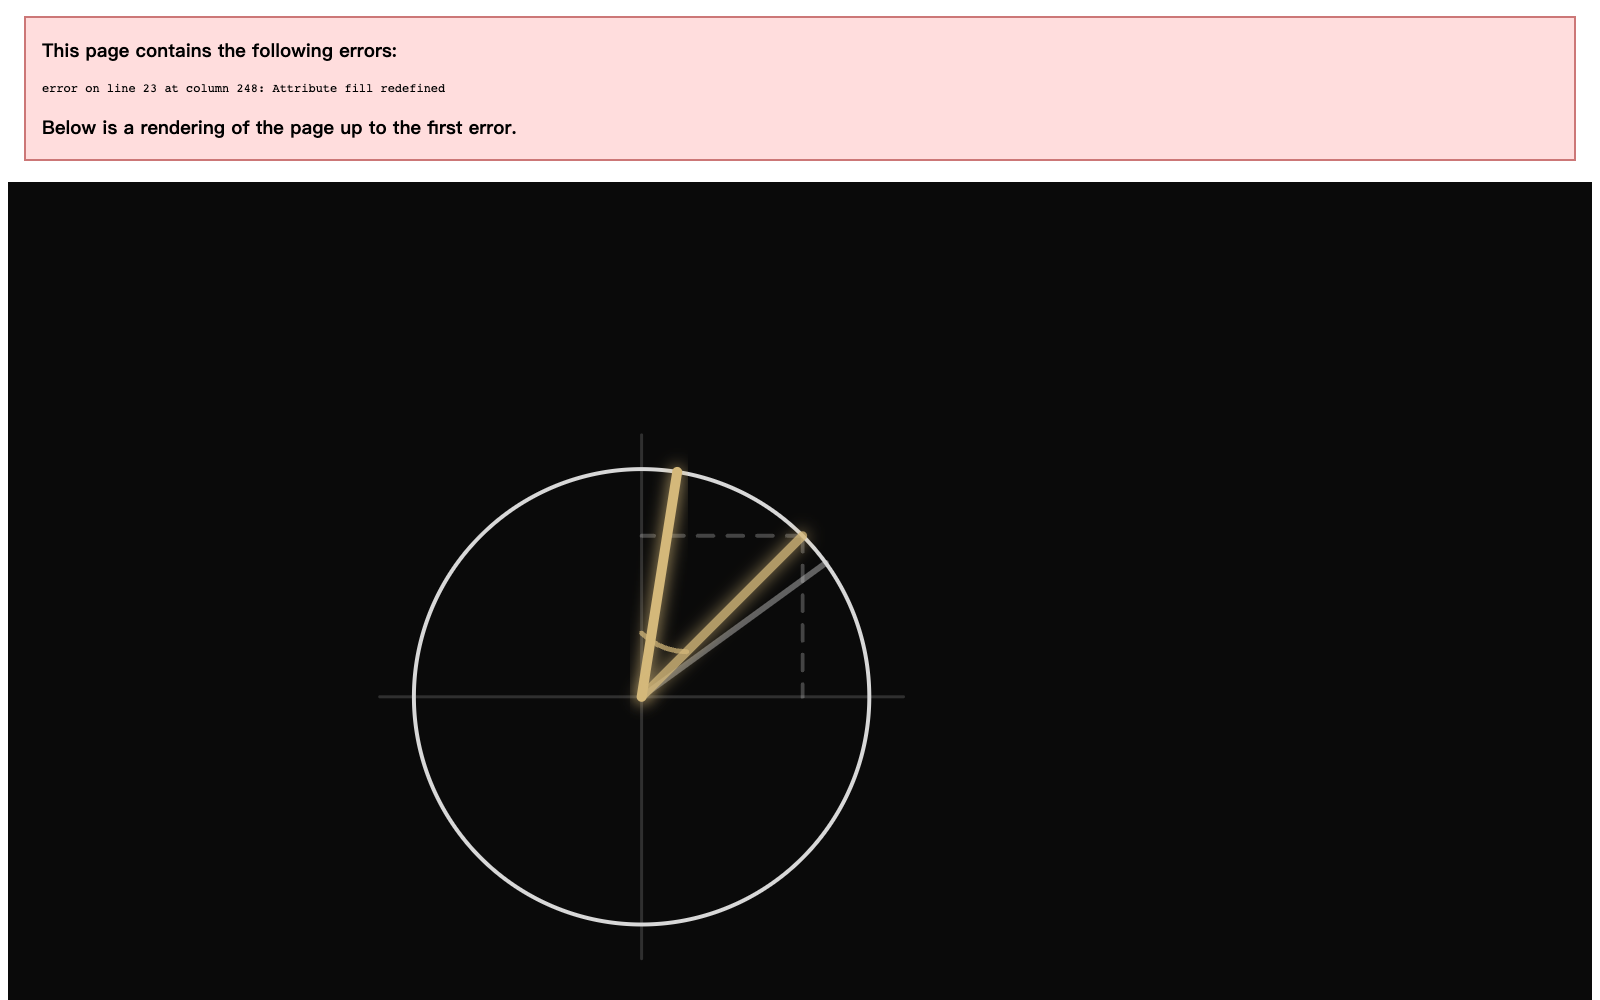
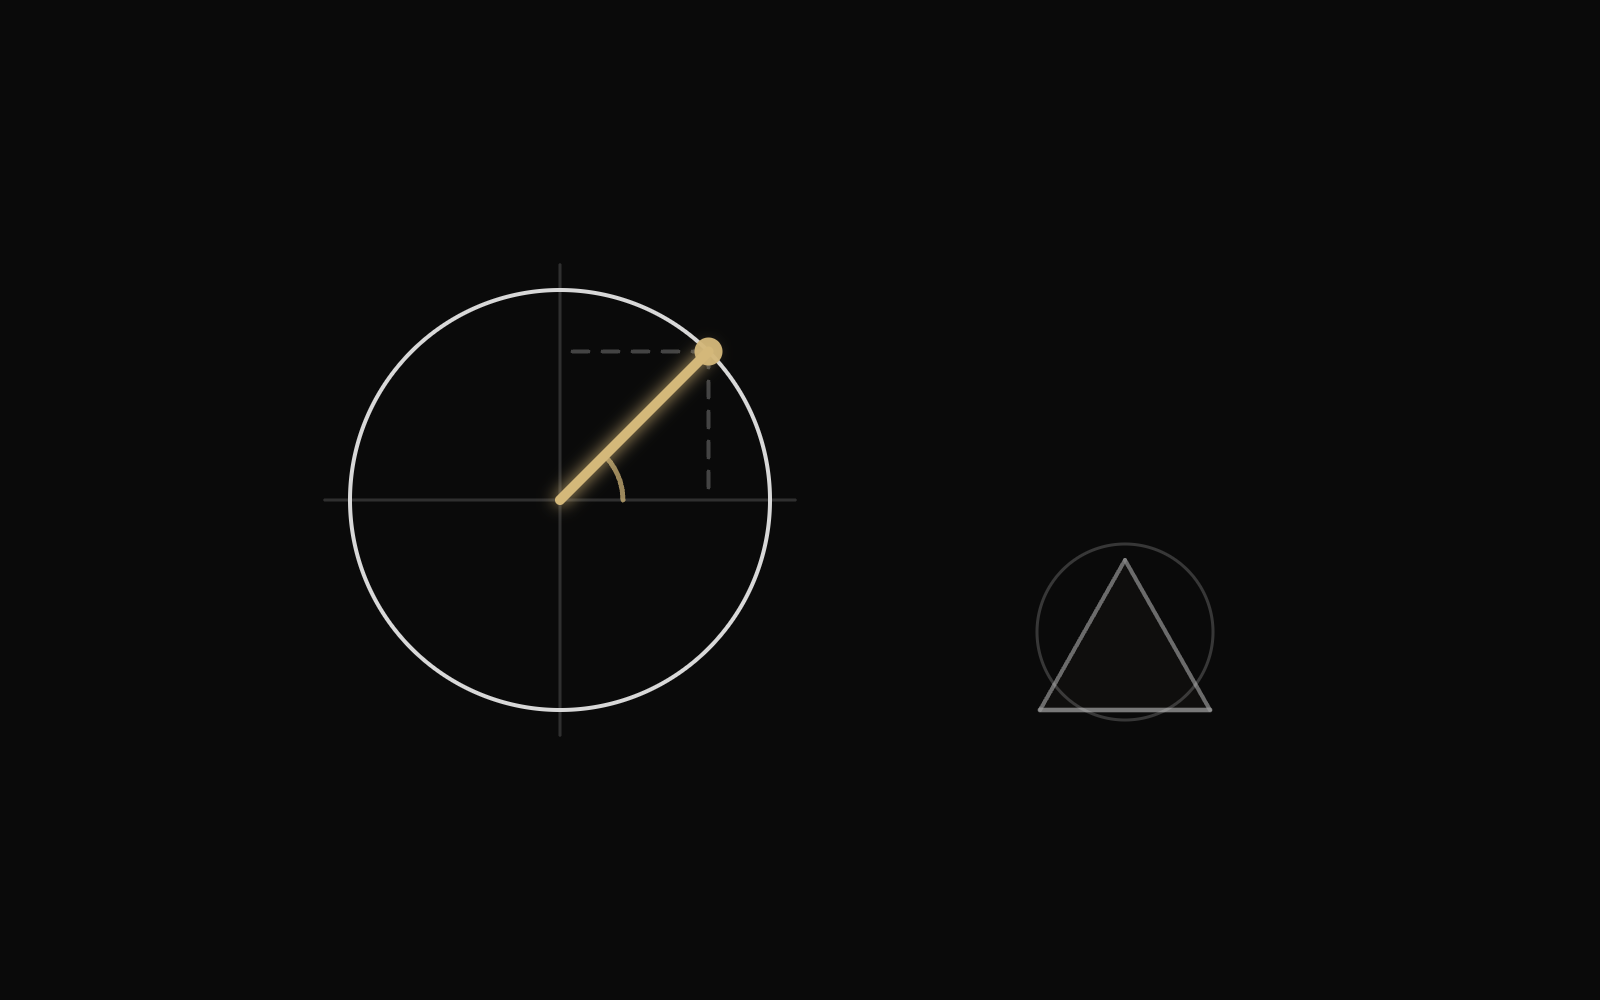
Fix trigonometry covers and surface them as latest homepage entries.
Strengthen work thumbnails and the explore cover SVG, then bump content dates so the new trigonometry batch ranks in the home latest sections.

diff --git a/src/curve/modules/law-of-sines-cosines/geometry.ts b/src/curve/modules/law-of-sines-cosines/geometry.ts
@@ -183,30 +183,48 @@ function toCurvePoint(v: Vec2, theta: number, scale = 42): CurvePoint {
   };
 }
 
+function sampleCircumcirclePath(A: Vec2, B: Vec2, C: Vec2, scale = 42): CurvePoint[] | null {
+  const cc = circumcircleFromTriangle(A, B, C);
+  if (!cc) return null;
+
+  const step = (Math.PI * 2) / 48;
+  const points: CurvePoint[] = [];
+  for (let a = 0; a <= Math.PI * 2 + step; a += step) {
+    points.push(
+      toCurvePoint(
+        { x: cc.o.x + Math.cos(a) * cc.r, y: cc.o.y + Math.sin(a) * cc.r },
+        a,
+        scale,
+      ),
+    );
+  }
+  return points;
+}
+
 export function sampleLawOfSinesCosinesThumbnail(
   params: LawOfSinesCosinesParams,
 ): ThumbnailSpec {
   const { A, B, C } = params.triangle;
-  const a = toCurvePoint(B, 0);
-  const b = toCurvePoint(C, 1);
-  const c = toCurvePoint(A, 2);
+  const a = toCurvePoint(A, 0);
+  const b = toCurvePoint(B, 1);
+  const c = toCurvePoint(C, 2);
+  const circumcircle = sampleCircumcirclePath(A, B, C);
+  const paths: ThumbnailSpec['paths'] = [];
 
-  return {
-    paths: [
-      {
-        points: [a, b],
-        strokeWidth: 1.5,
-      },
-      {
-        points: [b, c],
-        opacity: 0.24,
-        strokeWidth: 0.9,
-      },
-      {
-        points: [c, a],
-        opacity: 0.24,
-        strokeWidth: 0.9,
-      },
-    ],
-  };
+  if (circumcircle) {
+    paths.push({
+      points: circumcircle,
+      opacity: 0.28,
+      strokeWidth: 0.85,
+      excludeFromBbox: true,
+    });
+  }
+
+  paths.push(
+    { points: [a, b], strokeWidth: 1.5 },
+    { points: [b, c], opacity: 0.28, strokeWidth: 0.9 },
+    { points: [c, a], opacity: 0.28, strokeWidth: 0.9 },
+  );
+
+  return { paths };
 }

diff --git a/src/curve/modules/trig-angle-identities/geometry.ts b/src/curve/modules/trig-angle-identities/geometry.ts
@@ -1,3 +1,4 @@
+import { TWO_PI } from '../../constants';
 import type { CurvePoint, ThumbnailSpec } from '../../types';
 
 export const TAU = Math.PI * 2;
@@ -286,37 +287,51 @@ function toCurvePoint(x: number, y: number, theta: number, scale = 42): CurvePoi
   };
 }
 
+function sampleUnitCircleOutline(scale: number): CurvePoint[] {
+  const step = TWO_PI / 48;
+  const points: CurvePoint[] = [];
+  for (let a = 0; a <= TWO_PI + step; a += step) {
+    points.push(toCurvePoint(Math.cos(a), Math.sin(a), a, scale));
+  }
+  return points;
+}
+
 export function sampleTrigAngleIdentitiesThumbnail(): ThumbnailSpec {
+  const scale = 42;
   const alpha = (2 * Math.PI) / 3;
   const beta = Math.PI / 6;
+  const mid = (alpha + beta) / 2;
   const O = { x: 0, y: 0 };
   const A = { x: Math.cos(alpha), y: Math.sin(alpha) };
   const B = { x: Math.cos(beta), y: Math.sin(beta) };
+  const M = { x: Math.cos(mid), y: Math.sin(mid) };
 
   return {
     paths: [
       {
-        points: [toCurvePoint(O.x, O.y, 0), toCurvePoint(A.x, A.y, 1)],
+        points: sampleUnitCircleOutline(scale),
+        opacity: 0.32,
+        strokeWidth: 0.8,
+        excludeFromBbox: true,
+      },
+      {
+        points: [toCurvePoint(O.x, O.y, 0, scale), toCurvePoint(A.x, A.y, 1, scale)],
         strokeWidth: 1.6,
       },
       {
-        points: [toCurvePoint(O.x, O.y, 0), toCurvePoint(B.x, B.y, 1)],
-        strokeWidth: 1.3,
+        points: [toCurvePoint(O.x, O.y, 0, scale), toCurvePoint(B.x, B.y, 1, scale)],
+        strokeWidth: 1.2,
         opacity: 0.72,
       },
       {
-        points: [toCurvePoint(A.x, A.y, 1), toCurvePoint(B.x, B.y, 2)],
-        opacity: 0.22,
-        strokeWidth: 0.8,
-      },
-    ],
-    circles: [
-      {
-        x: 0,
-        y: 0,
-        r: 42,
+        points: [toCurvePoint(O.x, O.y, 0, scale), toCurvePoint(M.x, M.y, 2, scale)],
+        opacity: 0.34,
         strokeWidth: 0.9,
-        opacity: 0.28,
+      },
+      {
+        points: [toCurvePoint(A.x, A.y, 2, scale), toCurvePoint(B.x, B.y, 3, scale)],
+        opacity: 0.18,
+        strokeWidth: 0.75,
       },
     ],
   };

diff --git a/src/curve/modules/unit-circle-trig-definition/geometry.ts b/src/curve/modules/unit-circle-trig-definition/geometry.ts
@@ -1,3 +1,4 @@
+import { TWO_PI } from '../../constants';
 import type { CurvePoint, ThumbnailSpec } from '../../types';
 
 export const TAU = Math.PI * 2;
@@ -218,9 +219,20 @@ function toCurvePoint(x: number, y: number, theta: number, scale = 42): CurvePoi
   };
 }
 
+function sampleUnitCircleOutline(scale: number): CurvePoint[] {
+  const step = TWO_PI / 48;
+  const points: CurvePoint[] = [];
+  for (let a = 0; a <= TWO_PI + step; a += step) {
+    points.push(toCurvePoint(Math.cos(a), Math.sin(a), a, scale));
+  }
+  return points;
+}
+
 export function sampleUnitCircleTrigDefinitionThumbnail(): ThumbnailSpec {
-  const c = Math.cos(Math.PI / 4);
-  const s = Math.sin(Math.PI / 4);
+  const scale = 42;
+  const theta = Math.PI / 4;
+  const c = Math.cos(theta);
+  const s = Math.sin(theta);
   const O = { x: 0, y: 0 };
   const P = { x: c, y: s };
   const X = { x: c, y: 0 };
@@ -229,16 +241,22 @@ export function sampleUnitCircleTrigDefinitionThumbnail(): ThumbnailSpec {
   return {
     paths: [
       {
-        points: [toCurvePoint(O.x, O.y, 0), toCurvePoint(P.x, P.y, 1)],
+        points: sampleUnitCircleOutline(scale),
+        opacity: 0.35,
+        strokeWidth: 0.8,
+        excludeFromBbox: true,
+      },
+      {
+        points: [toCurvePoint(O.x, O.y, 0, scale), toCurvePoint(P.x, P.y, 1, scale)],
         strokeWidth: 1.6,
       },
       {
-        points: [toCurvePoint(O.x, O.y, 0), toCurvePoint(X.x, X.y, 1)],
+        points: [toCurvePoint(P.x, P.y, 1, scale), toCurvePoint(X.x, X.y, 2, scale)],
         opacity: 0.28,
         strokeWidth: 0.9,
       },
       {
-        points: [toCurvePoint(O.x, O.y, 0), toCurvePoint(Y.x, Y.y, 1)],
+        points: [toCurvePoint(P.x, P.y, 2, scale), toCurvePoint(Y.x, Y.y, 3, scale)],
         opacity: 0.28,
         strokeWidth: 0.9,
       },

diff --git a/src/content/explorePager.test.ts b/src/content/explorePager.test.ts
@@ -11,7 +11,6 @@ describe('explore collection pager', () => {
       'trig-wave-interference',
       'conic-dynamic-geometry',
       'matrix-linear-transform',
-      'trigonometry-fundamentals',
       'limits-riemann-sum',
       'differential-equations-geometry',
       'complex-euler-formula',
@@ -20,18 +19,19 @@ describe('explore collection pager', () => {
       'probability-statistics',
       'exponential-logarithm',
       'vectors',
+      'trigonometry-fundamentals',
     ]);
   });
 
   it('resolves neighbors for the newest explore slug', () => {
-    const { previous, next } = getCollectionPagerNeighbors(explore, 'vectors');
-    expect(previous?.id).toBe('exponential-logarithm');
+    const { previous, next } = getCollectionPagerNeighbors(explore, 'trigonometry-fundamentals');
+    expect(previous?.id).toBe('vectors');
     expect(next).toBeNull();
   });
 
   it('resolves neighbors for a middle explore slug', () => {
     const { previous, next } = getCollectionPagerNeighbors(explore, 'limits-riemann-sum');
-    expect(previous?.id).toBe('trigonometry-fundamentals');
+    expect(previous?.id).toBe('matrix-linear-transform');
     expect(next?.id).toBe('differential-equations-geometry');
   });
 });

diff --git a/src/curve/modules/law-of-sines-cosines/law-of-sines-cosines.test.ts b/src/curve/modules/law-of-sines-cosines/law-of-sines-cosines.test.ts
@@ -33,14 +33,15 @@ describe('law-of-sines-cosines module', () => {
     expect(cosine.stats).toHaveLength(4);
   });
 
-  it('thumbnail sample returns triangle paths', () => {
+  it('thumbnail sample returns circumcircle and triangle paths', () => {
     const spec = lawOfSinesCosinesModule.sample(
       asLawOfSinesCosinesParams({ mode: 'sine', triangle: DEFAULT_TRIANGLE }),
       { step: 1, purpose: 'thumbnail' },
     );
     expect(spec).toHaveProperty('paths');
     if ('paths' in spec) {
-      expect(spec.paths.length).toBeGreaterThanOrEqual(3);
+      expect(spec.paths.length).toBeGreaterThanOrEqual(4);
+      expect(spec.paths[0]?.points.length).toBeGreaterThan(40);
     }
   });
 

diff --git a/src/curve/modules/trig-angle-identities/trig-angle-identities.test.ts b/src/curve/modules/trig-angle-identities/trig-angle-identities.test.ts
@@ -45,14 +45,15 @@ describe('trig-angle-identities module', () => {
     expect(formulaDisplayLine(formulaFromId('sinSum'))).toContain('2sinm');
   });
 
-  it('thumbnail sample returns two direction paths', () => {
+  it('thumbnail sample returns unit circle, directions, and m guide', () => {
     const spec = trigAngleIdentitiesModule.sample(
       asTrigAngleIdentitiesModuleParams({ formulaId: 'sinSum' }),
       { step: 1, purpose: 'thumbnail' },
     );
     expect(spec).toHaveProperty('paths');
     if ('paths' in spec) {
-      expect(spec.paths.length).toBeGreaterThanOrEqual(2);
+      expect(spec.paths.length).toBeGreaterThanOrEqual(5);
+      expect(spec.paths[0]?.points.length).toBeGreaterThan(40);
     }
   });
 

diff --git a/src/curve/modules/unit-circle-trig-definition/unit-circle-trig-definition.test.ts b/src/curve/modules/unit-circle-trig-definition/unit-circle-trig-definition.test.ts
@@ -30,14 +30,15 @@ describe('unit-circle-trig-definition module', () => {
     expect(meta.stats.find((s) => s.key === 'quadrant')?.value).toContain('第一象限');
   });
 
-  it('thumbnail sample returns projection paths', () => {
+  it('thumbnail sample returns unit circle and projection paths', () => {
     const spec = unitCircleTrigDefinitionModule.sample(
       asUnitCircleTrigDefinitionParams({ theta: Math.PI / 4 }),
       { step: 1, purpose: 'thumbnail' },
     );
     expect(spec).toHaveProperty('paths');
     if ('paths' in spec) {
-      expect(spec.paths.length).toBeGreaterThanOrEqual(3);
+      expect(spec.paths.length).toBeGreaterThanOrEqual(4);
+      expect(spec.paths[0]?.points.length).toBeGreaterThan(40);
     }
   });
 

diff --git a/docs/thumbnail-cover-optimization.md b/docs/thumbnail-cover-optimization.md
@@ -99,7 +99,7 @@ coordinateSystem?: 'math' | 'canvas'
 | 2 | 結果型與點雲型 | 調整 bbox、密度、線寬、主體比例 |
 | 3 | 多層 / 過程型 | 避免鬼線、平線、完成態不明 |
 | 4 | 向量 / 複數 / 函數 / 級數型 | 補強主關係與 guide 層級 |
-| 5 | 全 44 件總覽 | 一致性微調，不重寫單件構圖 |
+| 5 | 全 47 件總覽 | 一致性微調，不重寫單件構圖 |
 
 ---
 
@@ -151,6 +151,9 @@ coordinateSystem?: 'math' | 'canvas'
 | `logarithmic-scale` | concept | 對數尺度壓縮乘法距離 | 對數軸、刻度距離 | 純座標軸 | 已截圖驗收 |
 | `natural-log-e-geometry` | concept | `1/x` 下方面積定義 ln | 曲線、填色面積、邊界 | 只畫曲線 | 已截圖驗收 |
 | `logistic-curve` | result-concept | S 型成長與承載上限 | S 曲線、水平上限 guide | 普通斜線 | 已截圖驗收 |
+| `unit-circle-trig-definition` | concept | sin、cos 由單位圓座標定義 | 單位圓、金色半徑、投影虛線 | 只有折線、無圓周 | 待截圖驗收 |
+| `law-of-sines-cosines` | concept | 邊角比與外接圓綁在同一比例 | 三角形、外接圓 guide、底邊強調 | 只有三邊、無外接圓 | 待截圖驗收 |
+| `trig-angle-identities` | concept | 兩角合成由中點角 m 與偏移 d 讀出 | 單位圓、兩半徑、m 導引 | 只有弦線、無圓與 m | 待截圖驗收 |
 
 ---
 
@@ -158,7 +161,7 @@ coordinateSystem?: 'math' | 'canvas'
 
 自動測試只驗結構穩定性，不驗語意命名：
 
-1. 所有 44 slug 都可 render SVG。
+1. 所有 47 slug 都可 render SVG。
 2. SVG 不空白，至少有一個 `<path>` 或 `<circle>`。
 3. SVG 不含 `NaN` / `Infinity`。
 4. thumbnail sample 的 bbox 不為零。

diff --git a/src/content/explore/trigonometry-fundamentals.md b/src/content/explore/trigonometry-fundamentals.md
@@ -2,7 +2,7 @@
 title: 三角函數
 description: 從單位圓定義 sin、cos、tan，連接三角形邊角關係，再用角度合成理解三角恆等式。
 category: 幾何
-date: 2026-06-09
+date: 2026-08-29
 coverImage: /images/explore-covers/trigonometry-fundamentals.png
 featured: false
 draft: false

diff --git a/src/content/works/law-of-sines-cosines.md b/src/content/works/law-of-sines-cosines.md
@@ -3,7 +3,7 @@ title: 正弦定理與餘弦定理
 description: 拖動三角形頂點，切換正弦定理與餘弦定理，即時驗證邊角關係與外接圓半徑。
 tags:
   - 幾何
-date: 2026-06-10
+date: 2026-08-27
 featured: false
 draft: false
 ---

diff --git a/src/content/works/trig-angle-identities.md b/src/content/works/trig-angle-identities.md
@@ -3,7 +3,7 @@ title: 三角恆等式與角度合成
 description: 在單位圓上拖動 α、β，以中點角 m 與偏移 d 理解 sin±、cos± 的和差化積與積化和差。
 tags:
   - 幾何
-date: 2026-06-11
+date: 2026-08-28
 featured: false
 draft: false
 ---

diff --git a/src/content/works/unit-circle-trig-definition.md b/src/content/works/unit-circle-trig-definition.md
@@ -3,7 +3,7 @@ title: 單位圓與三角函數定義
 description: 拖動單位圓上的角 θ，同步讀取 cos θ、sin θ、tan θ 與象限正負。
 tags:
   - 幾何
-date: 2026-06-09
+date: 2026-08-26
 featured: false
 draft: false
 ---